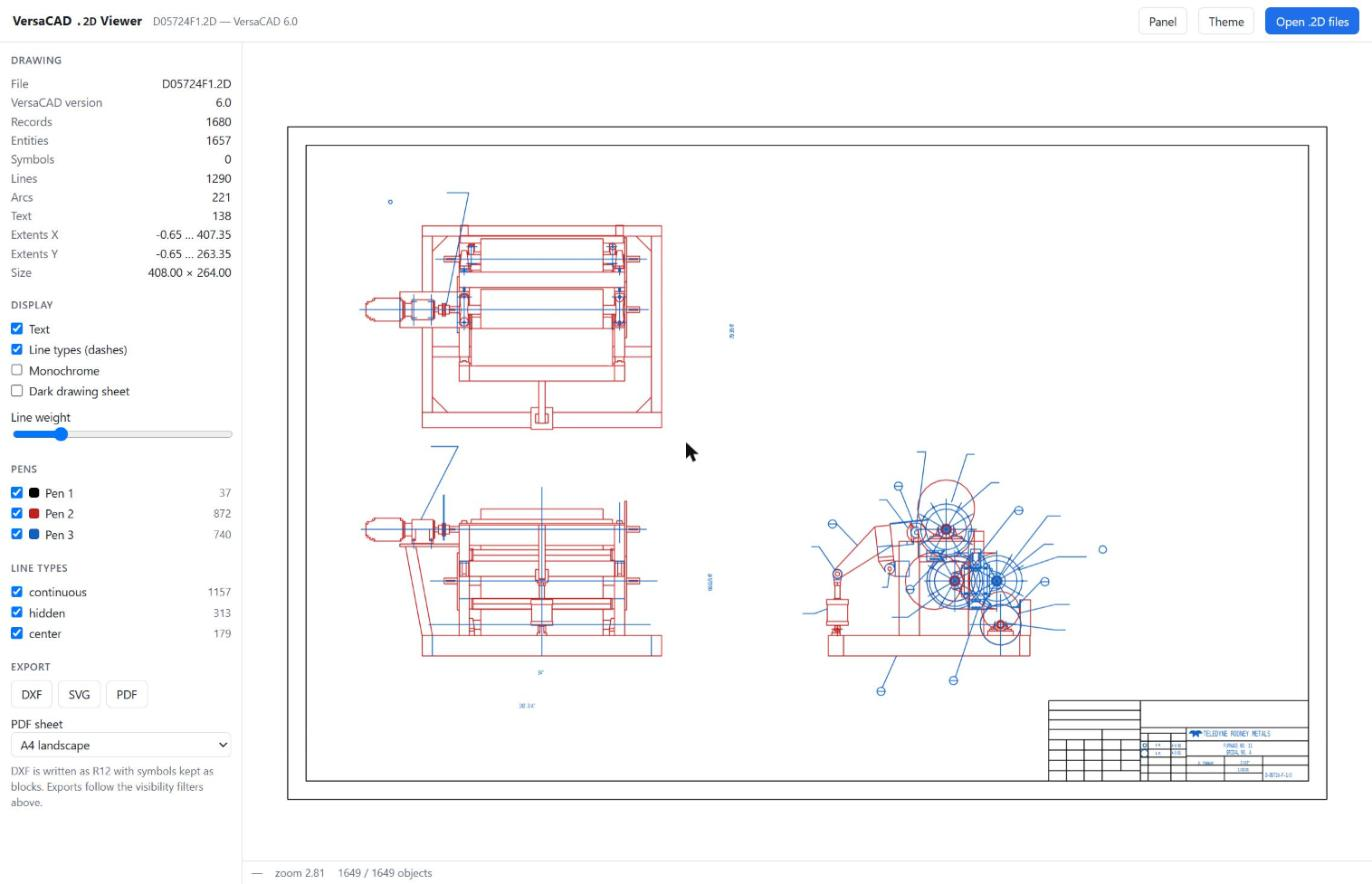
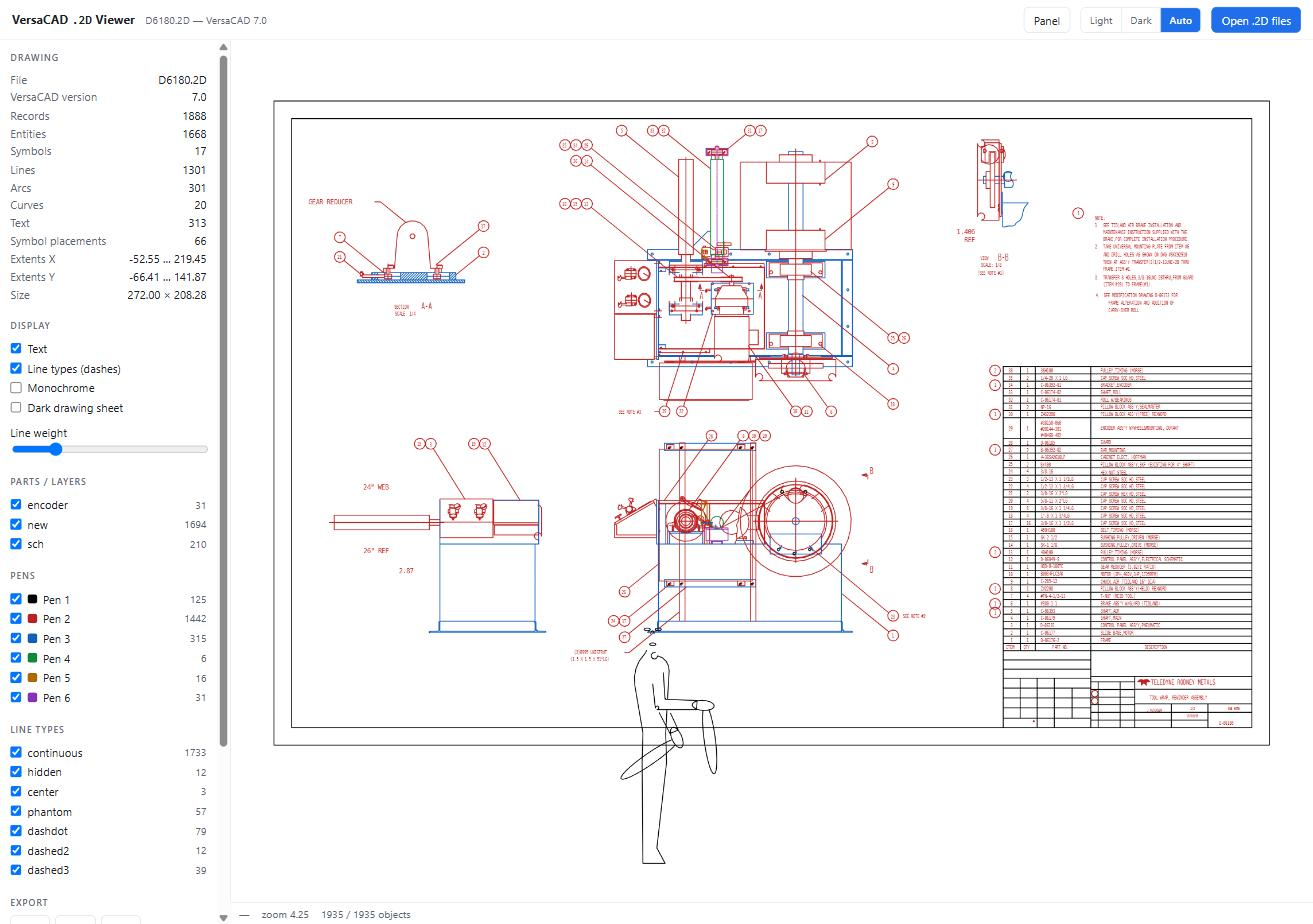
Add light/dark/auto mode.

diff --git a/dist/vcadview.css b/dist/vcadview.css
@@ -5,6 +5,13 @@
  * The drawing itself is painted on a canvas by vcad-render.js; nothing here
  * affects it apart from the sheet background, which the renderer owns.
  */
+/* Theme.  The picker in the header writes data-theme on <html>:
+ *   absent          - Auto:  follow the operating system
+ *   data-theme=light - always light
+ *   data-theme=dark  - always dark
+ * The light palette lives on :root and is the fallback. The dark palette is
+ * stated twice, once for "the OS is dark and the user has not forced light"
+ * and once for "the user asked for dark"; the two lists must stay in step. */
 :root {
   --bg: #f6f7f9;
   --panel: #ffffff;
@@ -24,7 +31,7 @@
     color-scheme: dark;
   }
 }
-[data-theme="dark"] {
+:root[data-theme="dark"] {
   --bg: #14171b; --panel: #1b1f24; --ink: #e6e9ee; --muted: #9aa4b0;
   --line: #2c333b; --accent: #4d8ef7; --accent-ink: #0b1220; --chip: #232a32;
   color-scheme: dark;
@@ -43,9 +50,36 @@ header {
   padding: 8px 14px; background: var(--panel);
   border-bottom: 1px solid var(--line); flex: none;
 }
-header h1 { font-size: 14px; margin: 0; font-weight: 650; letter-spacing: .01em; }
-header .sub { color: var(--muted); font-size: 12px; }
+header h1 { font-size: 14px; margin: 0; font-weight: 650; letter-spacing: .01em; flex: none; }
+header .sub {
+  color: var(--muted); font-size: 12px;
+  /* A long file name must ellipsise rather than shove the controls off-screen. */
+  min-width: 0; overflow: hidden; text-overflow: ellipsis; white-space: nowrap;
+}
 header .spacer { flex: 1; }
+
+/* Segmented picker (Light / Dark / Auto). The radios stay in the accessibility
+   tree and keep arrow-key navigation; only the labels are visible. */
+.seg {
+  position: relative; display: inline-flex; flex: none;
+  border: 1px solid var(--line); border-radius: 6px; overflow: hidden;
+}
+.seg input {
+  position: absolute; width: 1px; height: 1px; margin: -1px;
+  padding: 0; border: 0; overflow: hidden; clip: rect(0 0 0 0); white-space: nowrap;
+}
+.seg label {
+  padding: 5px 10px; font-size: 12px; line-height: 1.5; cursor: pointer;
+  color: var(--muted); background: var(--panel);
+  border-left: 1px solid var(--line); user-select: none; white-space: nowrap;
+}
+.seg label:first-of-type { border-left: 0; }
+.seg label:hover { color: var(--ink); background: var(--chip); }
+.seg input:checked + label {
+  background: var(--accent); color: var(--accent-ink); font-weight: 600;
+}
+.seg input:checked + label:hover { color: var(--accent-ink); background: var(--accent); }
+.seg input:focus-visible + label { outline: 2px solid var(--accent); outline-offset: -2px; }
 
 button, .btn {
   font: inherit; padding: 5px 11px; border-radius: 6px;
@@ -72,6 +106,8 @@ main { flex: 1; display: flex; min-height: 0; }
   border-top: 1px solid var(--line);
   color: var(--muted); font-size: 12px; text-align: center; text-wrap: balance;
 }
+#credit a { color: inherit; text-decoration: underline; text-underline-offset: 2px; }
+#credit a:hover, #credit a:focus-visible { color: var(--accent); }
 .grp { margin-bottom: 18px; }
 .grp > h2 {
   font-size: 11px; text-transform: uppercase; letter-spacing: .06em;

diff --git a/web/css/app.css b/web/css/app.css
@@ -4,6 +4,13 @@
  * The drawing itself is painted on a canvas by vcad-render.js; nothing here
  * affects it apart from the sheet background, which the renderer owns.
  */
+/* Theme.  The picker in the header writes data-theme on <html>:
+ *   absent          - Auto:  follow the operating system
+ *   data-theme=light - always light
+ *   data-theme=dark  - always dark
+ * The light palette lives on :root and is the fallback. The dark palette is
+ * stated twice, once for "the OS is dark and the user has not forced light"
+ * and once for "the user asked for dark"; the two lists must stay in step. */
 :root {
   --bg: #f6f7f9;
   --panel: #ffffff;
@@ -23,7 +30,7 @@
     color-scheme: dark;
   }
 }
-[data-theme="dark"] {
+:root[data-theme="dark"] {
   --bg: #14171b; --panel: #1b1f24; --ink: #e6e9ee; --muted: #9aa4b0;
   --line: #2c333b; --accent: #4d8ef7; --accent-ink: #0b1220; --chip: #232a32;
   color-scheme: dark;
@@ -42,9 +49,36 @@ header {
   padding: 8px 14px; background: var(--panel);
   border-bottom: 1px solid var(--line); flex: none;
 }
-header h1 { font-size: 14px; margin: 0; font-weight: 650; letter-spacing: .01em; }
-header .sub { color: var(--muted); font-size: 12px; }
+header h1 { font-size: 14px; margin: 0; font-weight: 650; letter-spacing: .01em; flex: none; }
+header .sub {
+  color: var(--muted); font-size: 12px;
+  /* A long file name must ellipsise rather than shove the controls off-screen. */
+  min-width: 0; overflow: hidden; text-overflow: ellipsis; white-space: nowrap;
+}
 header .spacer { flex: 1; }
+
+/* Segmented picker (Light / Dark / Auto). The radios stay in the accessibility
+   tree and keep arrow-key navigation; only the labels are visible. */
+.seg {
+  position: relative; display: inline-flex; flex: none;
+  border: 1px solid var(--line); border-radius: 6px; overflow: hidden;
+}
+.seg input {
+  position: absolute; width: 1px; height: 1px; margin: -1px;
+  padding: 0; border: 0; overflow: hidden; clip: rect(0 0 0 0); white-space: nowrap;
+}
+.seg label {
+  padding: 5px 10px; font-size: 12px; line-height: 1.5; cursor: pointer;
+  color: var(--muted); background: var(--panel);
+  border-left: 1px solid var(--line); user-select: none; white-space: nowrap;
+}
+.seg label:first-of-type { border-left: 0; }
+.seg label:hover { color: var(--ink); background: var(--chip); }
+.seg input:checked + label {
+  background: var(--accent); color: var(--accent-ink); font-weight: 600;
+}
+.seg input:checked + label:hover { color: var(--accent-ink); background: var(--accent); }
+.seg input:focus-visible + label { outline: 2px solid var(--accent); outline-offset: -2px; }
 
 button, .btn {
   font: inherit; padding: 5px 11px; border-radius: 6px;
@@ -71,6 +105,8 @@ main { flex: 1; display: flex; min-height: 0; }
   border-top: 1px solid var(--line);
   color: var(--muted); font-size: 12px; text-align: center; text-wrap: balance;
 }
+#credit a { color: inherit; text-decoration: underline; text-underline-offset: 2px; }
+#credit a:hover, #credit a:focus-visible { color: var(--accent); }
 .grp { margin-bottom: 18px; }
 .grp > h2 {
   font-size: 11px; text-transform: uppercase; letter-spacing: .06em;

diff --git a/dist/vcadview.js b/dist/vcadview.js
@@ -1604,13 +1604,39 @@
   };
 
   $('btnSide').onclick = function () { $('side').classList.toggle('hidden'); viewer.resize(); };
-  $('btnTheme').onclick = function () {
+  // --------------------------------------------------------------- theming
+
+  // 'auto' leaves data-theme off so the stylesheet's prefers-color-scheme
+  // rules decide; 'light' and 'dark' pin it.
+  var THEME_KEY = 'vcadview.theme';
+  var THEMES = { light: 1, dark: 1, auto: 1 };
+
+  function applyTheme(mode) {
+    if (!THEMES[mode]) mode = 'auto';
     var r = document.documentElement;
-    var now = r.getAttribute('data-theme');
-    var dark = now ? now === 'dark'
-      : matchMedia('(prefers-color-scheme: dark)').matches;
-    r.setAttribute('data-theme', dark ? 'light' : 'dark');
-  };
+    if (mode === 'auto') r.removeAttribute('data-theme');
+    else r.setAttribute('data-theme', mode);
+    var el = document.querySelector('#theme input[value="' + mode + '"]');
+    if (el) el.checked = true;
+    return mode;
+  }
+
+  function storedTheme() {
+    try { return localStorage.getItem(THEME_KEY); } catch (e) { return null; }
+  }
+
+  Array.prototype.forEach.call(
+    document.querySelectorAll('#theme input[name="theme"]'),
+    function (el) {
+      el.addEventListener('change', function () {
+        if (!el.checked) return;
+        applyTheme(el.value);
+        try { localStorage.setItem(THEME_KEY, el.value); } catch (e) { /* private mode */ }
+      });
+    }
+  );
+
+  applyTheme(storedTheme() || 'auto');
 
   // ---------------------------------------------------------------- exports
 

diff --git a/web/js/app.js b/web/js/app.js
@@ -323,13 +323,39 @@
   };
 
   $('btnSide').onclick = function () { $('side').classList.toggle('hidden'); viewer.resize(); };
-  $('btnTheme').onclick = function () {
+  // --------------------------------------------------------------- theming
+
+  // 'auto' leaves data-theme off so the stylesheet's prefers-color-scheme
+  // rules decide; 'light' and 'dark' pin it.
+  var THEME_KEY = 'vcadview.theme';
+  var THEMES = { light: 1, dark: 1, auto: 1 };
+
+  function applyTheme(mode) {
+    if (!THEMES[mode]) mode = 'auto';
     var r = document.documentElement;
-    var now = r.getAttribute('data-theme');
-    var dark = now ? now === 'dark'
-      : matchMedia('(prefers-color-scheme: dark)').matches;
-    r.setAttribute('data-theme', dark ? 'light' : 'dark');
-  };
+    if (mode === 'auto') r.removeAttribute('data-theme');
+    else r.setAttribute('data-theme', mode);
+    var el = document.querySelector('#theme input[value="' + mode + '"]');
+    if (el) el.checked = true;
+    return mode;
+  }
+
+  function storedTheme() {
+    try { return localStorage.getItem(THEME_KEY); } catch (e) { return null; }
+  }
+
+  Array.prototype.forEach.call(
+    document.querySelectorAll('#theme input[name="theme"]'),
+    function (el) {
+      el.addEventListener('change', function () {
+        if (!el.checked) return;
+        applyTheme(el.value);
+        try { localStorage.setItem(THEME_KEY, el.value); } catch (e) { /* private mode */ }
+      });
+    }
+  );
+
+  applyTheme(storedTheme() || 'auto');
 
   // ---------------------------------------------------------------- exports
 

diff --git a/web/index.html b/web/index.html
@@ -12,7 +12,14 @@
   <span class="sub" id="hdrfile">no drawing loaded</span>
   <span class="spacer"></span>
   <button id="btnSide" title="Toggle the side panel">Panel</button>
-  <button id="btnTheme" title="Switch light / dark interface">Theme</button>
+  <div class="seg" id="theme" role="group" aria-label="Interface theme">
+    <input type="radio" name="theme" id="thLight" value="light">
+    <label for="thLight" title="Always use the light interface">☀</label>
+    <input type="radio" name="theme" id="thDark" value="dark">
+    <label for="thDark" title="Always use the dark interface">🌙</label>
+    <input type="radio" name="theme" id="thAuto" value="auto" checked>
+    <label for="thAuto" title="Follow the operating system setting">🌗</label>
+  </div>
   <button class="primary" id="btnOpen">Open .2D files</button>
   <input type="file" id="file" accept=".2d,.2D" multiple hidden>
 </header>
@@ -82,8 +89,9 @@
 
     <footer id="credit">
       Vibe coded with <span role="img" aria-label="love">&#10084;&#65039;</span>
-      by Dmitry Brant. Not affiliated with VersaCAD. For research and education
-	  purposes only.
+      by <a href="https://dmitrybrant.com" target="_blank" rel="noopener">Dmitry Brant</a>.
+      Not affiliated with VersaCAD.
+      For research and education purposes only.
     </footer>
   </aside>
 

diff --git a/dist/vcadview.html b/dist/vcadview.html
@@ -12,7 +12,14 @@
   <span class="sub" id="hdrfile">no drawing loaded</span>
   <span class="spacer"></span>
   <button id="btnSide" title="Toggle the side panel">Panel</button>
-  <button id="btnTheme" title="Switch light / dark interface">Theme</button>
+  <div class="seg" id="theme" role="group" aria-label="Interface theme">
+    <input type="radio" name="theme" id="thLight" value="light">
+    <label for="thLight" title="Always use the light interface">Light</label>
+    <input type="radio" name="theme" id="thDark" value="dark">
+    <label for="thDark" title="Always use the dark interface">Dark</label>
+    <input type="radio" name="theme" id="thAuto" value="auto" checked>
+    <label for="thAuto" title="Follow the operating system setting">Auto</label>
+  </div>
   <button class="primary" id="btnOpen">Open .2D files</button>
   <input type="file" id="file" accept=".2d,.2D" multiple hidden>
 </header>
@@ -82,7 +89,9 @@
 
     <footer id="credit">
       Vibe coded with <span role="img" aria-label="love">&#10084;&#65039;</span>
-      by Dmitry Brant.
+      by <a href="https://dmitrybrant.com" target="_blank" rel="noopener">Dmitry Brant</a>.
+      Not affiliated with VersaCAD.
+      For research and education purposes only.
     </footer>
   </aside>
 

diff --git a/tools/verify.py b/tools/verify.py
@@ -10,7 +10,7 @@ Checks, in order:
   3. DXF/SVG/PDF export runs, and re-reading the DXF reproduces the source
      geometry (path length, bounding box and every text string). [needs node]
   4. The bundle builds into dist/ as three files - markup, one stylesheet
-     and one script - with no inline CSS or JS and no outside references.
+     and one script - with no inline CSS or JS and no outside assets.
 
 Exit code is non-zero if anything fails.
 """
@@ -180,16 +180,19 @@ def check_bundle(tmp):
     if missing:
         fail('missing from the bundle: ' + ', '.join(missing))
 
-    # Nothing may point outside the dist directory.
-    stray = re.findall(r'(?:src|href)="((?:https?:)?//[^"]+|\.\.?/[^"]+)"', html)
+    # No *asset* may live outside the dist directory, or the app stops working
+    # offline. Ordinary <a href> links are content, not assets, and are fine.
+    assets = re.findall(r'\bsrc="([^"]+)"', html)
+    assets += re.findall(r'<link\b[^>]*\bhref="([^"]+)"', html)
+    stray = [a for a in assets if re.match(r'(?:[a-z][a-z0-9+.-]*:)?//|\.\.?/', a)]
     if stray:
-        fail('bundle references files outside dist: ' + ', '.join(stray))
+        fail('bundle loads assets from outside dist: ' + ', '.join(stray))
 
     if len(FAILS) == before:
         ok(f'{len(src["styles"])} stylesheet(s) -> {bundle.CSS_NAME} ({len(css):,} B), '
            f'{len(src["scripts"])} script(s) -> {bundle.JS_NAME} ({len(js):,} B)')
         ok(f'{bundle.HTML_NAME} ({len(html):,} B) is markup only, '
-           f'and references nothing outside dist/')
+           f'and loads no assets from outside dist/')
 
 
 def main():

diff --git a/README.md b/README.md
@@ -8,7 +8,7 @@ and the findings are written up in [`docs/FORMAT.md`](docs/FORMAT.md).
 Everything runs client-side. No server, no upload, no network access — the
 drawings never leave the machine.
 
-![The viewer showing a 1988 Teledyne Rodney Metals assembly drawing](docs/screenshot.jpg)
+![The viewer showing a Teledyne Rodney Metals winder assembly drawing](docs/screenshot.jpg)
 
 ## Using it
 
@@ -48,8 +48,14 @@ The side panel reports what is in the drawing and lets you switch off individual
 well, so you can, for example, export just the geometry without the annotation
 pen.
 
-Display options cover text on/off, dashed line types on/off, monochrome, a dark
-drawing sheet, and line weight.
+The interface theme is a **Light / Dark / Auto** picker in the header; Auto
+follows the operating system, and the choice is remembered between sessions.
+It is deliberately separate from the **dark drawing sheet** option in the side
+panel, so you can keep a white "paper" sheet under a dark interface, or the
+reverse.
+
+Other display options cover text on/off, dashed line types on/off, monochrome,
+and line weight.
 
 ### Converting
 
@@ -98,7 +104,7 @@ This runs four checks and exits non-zero on any failure:
    and every text string preserved.
 4. The bundle builds into `dist/` as exactly three files, the HTML carries no
    inline CSS or JavaScript, every source file made it into the combined
-   output, and nothing points outside `dist/`.
+   output, and no assets are loaded from outside `dist/`.
 
 Steps 2 and 3 need Node (any recent version) on `PATH`; they are reported as
 failures if it is missing. Steps 1 and 4 need only Python 3 and, for the
